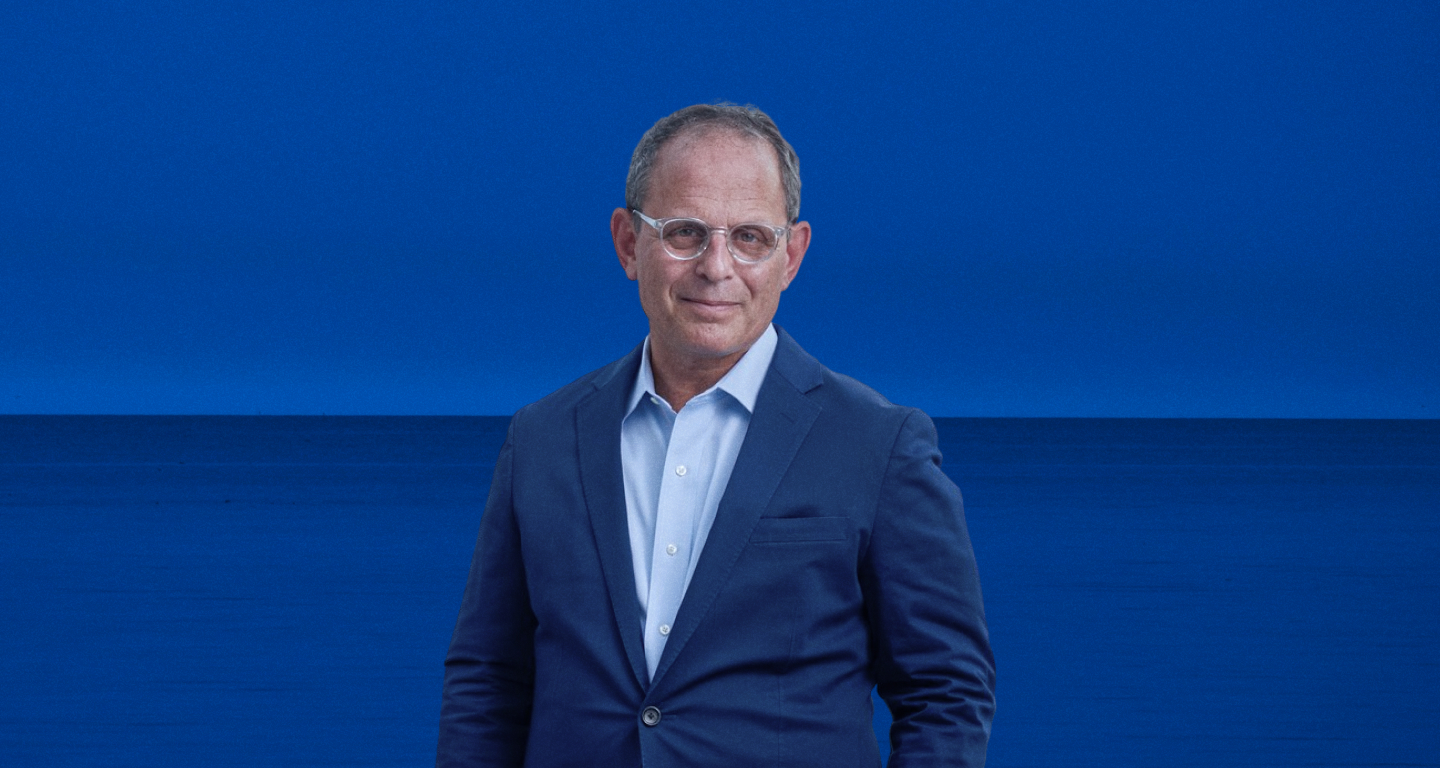
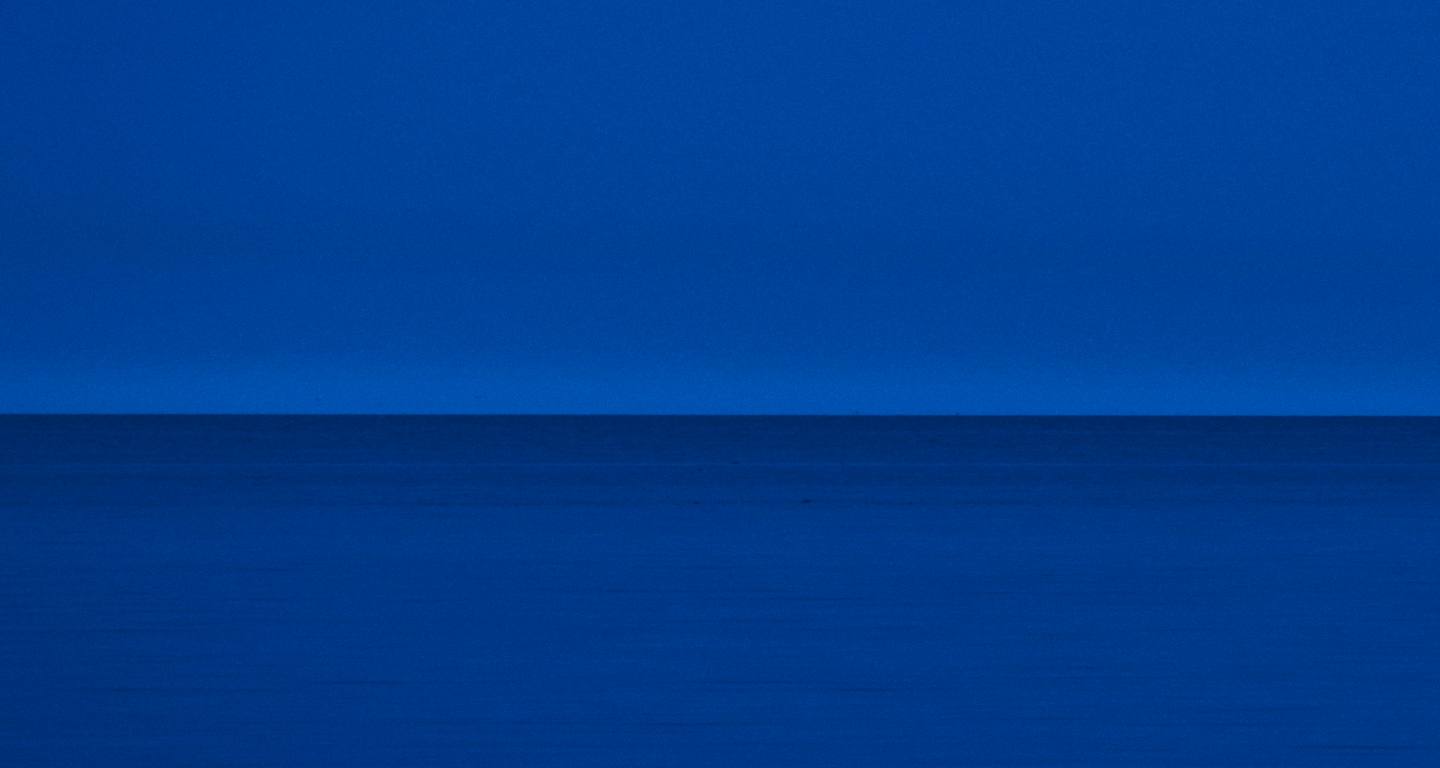
Services, Content Updates

Changed region(s): [[0.2812, 0.125, 0.8125, 1.0], [0.875, 0.5312, 1.0, 0.5625]]

diff --git a/public/index.html b/public/index.html
@@ -38,7 +38,15 @@
 			.nav-link .li_icon_nav path { fill:#FFF; transition: var(--transition_all); }
 				.nav-link:hover .li_icon_nav path,
 				.nav-link:focus .li_icon_nav path { fill:#FFF; }
-			header#header { background-image: url('assets/ss-banner-bg.jpg'); background-size: cover; background-position: center center; min-height: 55vh; }
+			header#header { background-image: url('assets/ss-banner-bg.jpg'); background-size: cover; background-position: center center; min-height: 55vh; position:relative; }
+			
+			@keyframes bgScott {
+			  0%   { opacity: 0; bottom:-2rem; }
+			  100% { opacity: 1; bottom:0; }
+			}
+			header#header::before { background-image: url('assets/scott-schiller-banner.png'); background-size: contain; background-position: center bottom; position: absolute; content:""; left:5%; bottom:0; height: 90%; width:90%; background-repeat: no-repeat; animation: bgScott 1s; }
+			
+			
 			
 				header#header .container,
 				header#header .container .row { min-height:55vh; }
@@ -111,6 +119,26 @@
 					footer#footer ul li a { text-decoration: none; color: var(--body-on-lightbg); }
 						footer#footer ul li a:hover,
 						footer#footer ul li a:focus { color: var(--body-on-lightbg); font-weight:600; }
+			
+			.form-control { background-color: rgb(255 255 255 / 0); border-radius: 0; border-color: var(--body-on-lightbg); border-width: 0 0 1px 0; font-weight: 700; }
+			.form-control:focus { background-color: rgb(255 255 255 / 0); border-width: 0 0 1px 0; box-shadow:none; border-color: var(--body-on-lightbg); color: var(--body-on-lightbg); }
+			.form-floating>label { color:#A0BBD7; font-weight: 700; }
+			
+			.form-floating>.form-control-plaintext~label, 
+			.form-floating>.form-control:focus~label, 
+			.form-floating>.form-control:not(:placeholder-shown)~label, 
+			.form-floating>.form-select~label { opacity: 1; transform: scale(.75) translateY(-0.5rem) translateX(0.15rem); }
+			
+			.form-floating>.form-control-plaintext:focus, 
+			.form-floating>.form-control-plaintext:not(:placeholder-shown), 
+			.form-floating>.form-control:focus, 
+			.form-floating>.form-control:not(:placeholder-shown) { padding-bottom: 0.25rem; }
+			
+			abbr[title] { text-decoration: none; }
+			input[aria-invalid="true"] { border-color: #F53939 !important; }
+			
+			label.error { color: #F53939; top: unset !important; padding: 0.5rem 0 0 0.75rem; font-weight: 400; }
+			
 			.footerCTA h2 { font-size: clamp(2.5rem, 1.741rem + 2.1916vw, 4rem); }
 			.footerCTA h3 { font-family: 'Manrope',sans-serif; font-weight: 200; font-size: clamp(1.5rem, 0.2349rem + 3.8193vw, 4rem); }
 				.footerCTA h3 a { text-decoration: none; color: var(--body-on-lightbg); }
@@ -137,7 +165,7 @@
 	<header id="header">
 		<div class="container">
 			<div class="row">
-				<div class="col d-flex flex-column justify-content-between">
+				<div class="col d-flex flex-column justify-content-between" style="z-index: 9;">
 					<nav class="navbar navbar-dark navbar-expand-md d-flex justify-content-between pt-5">
 						<div class="sslogo text-white d-none d-md-block"><span>Scott</span><br>Schiller</div>
 						<button class="navbar-toggler" type="button" data-bs-toggle="collapse" data-bs-target="#navbarScroll" aria-controls="navbarScroll" aria-expanded="false" aria-label="Toggle navigation">
@@ -148,6 +176,9 @@
 						  <ul class="navbar-nav me-auto my-2 my-lg-0 navbar-nav-scroll d-flex justify-content-end">
 							<li class="nav-item me-md-3">
 							  <a class="nav-link" href="#about">About</a>
+							</li>
+							<li class="nav-item me-md-3">
+							  <a class="nav-link" href="#services">Services</a>
 							</li>
 							<li class="nav-item me-md-3">
 							  <a class="nav-link" href="#my_articles">My Articles</a>
@@ -204,6 +235,32 @@
 						<h4 style="font-family:'Manrope',sans-serif; font-weight:800;color:#FFCA3C;">Courses Taught</h4>
 						<p class="text_on_darkbg">Technology's Impact on Entertainment and Media</p>
 					</div>
+				</div>
+			</div>
+		</section>
+		
+		<section id="services" class="container py-5">
+			<div class="row">
+				<div class="col">
+					<h2 class="h1" style="color:#003F95;">Services</h2>
+					<p class="fs-4">Schiller can help you accelerate growth, drive business transformation, and create long-term value.</p>
+					<div class="swiper swiperServices mt-5">
+						<div class="swiper-wrapper">
+							<div class="swiper-slide service_each">
+								<h3 class="h2">Programs</h3>
+								<p>Scott knows how to raise a company's profile and gain industry visibility through impactful thought leadership and communication. He excels at program development and education, conducting action-oriented workshops that focus on team building and teaching employees new skills to improve their performance. He also works with startup companies to develop strategies for communicating with best-in-class media sensibility.</p>
+							</div>
+							<div class="swiper-slide service_each">
+								<h3 class="h2">Monetization</h3>
+								<p>Schiller is experienced in aligning product and monetization strategies throughout an organization to ensure optimal performance and profitability. First, he conducts a thorough competitive analysis to identify knowledge gaps and then will optimize your business’s value proposition and new marketplace opportunities with a detailed go-to-market playbook. Additionally, he provides curated connections and introductions to established industry leaders who can help take your business even further.</p>
+							</div>
+							<div class="swiper-slide service_each">
+								<h3 class="h2">Leadership</h3>
+								<p>As a long time industry leader, Schiller is skilled in coaching and mentoring executives and teams to help them reach their own leadership potential. He has deep knowledge of how to implement effective compensation plans that drive growth and performance. He also understands and guides leaders on the nuances of managing with emotional intelligence that are essential for leadership effectiveness.</p>
+							</div>
+						</div>
+					</div>
+					<div class="services-pagination media_pag"></div>
 				</div>
 			</div>
 		</section>
@@ -443,16 +500,65 @@
 						</div>
 					</div>
 				</div>
-				<div class="col-md-7 footerCTA mt-4 mt-md-0">
-					<h2 class="mb-0 lh-1">Let's talk</h2>
-					<h3 class="mt-0"><a href="mailto:hello@scottyschiller.com" title="Email Scott Schiller">hello@scottyschiller.com</a></h3>
+				<div class="col-md-7 mt-4 mt-md-0">
+					<form name="contact" method="POST" data-netlify="true" netlify-honeypot="bot-field">
+						<input type="hidden" name="subject" value="Completed Contact Form from " />
+						<div class="form-floating mb-2">
+							<input type="text" class="form-control" id="nameInput" name="name" placeholder="Name" required>
+							<label for="nameInput">Name<abbr title="Required">*</abbr></label>
+						</div>
+						<div class="form-floating mb-2">
+							<input type="email" class="form-control" id="emailInput" name="email" spellcheck="false" placeholder="Email" required>
+							<label for="emailInput">Email<abbr title="Required">*</abbr></label>
+						</div>
+						<div class="form-floating mb-2">
+							<input type="text" class="form-control" id="companyInput" name="company" placeholder="Company" required>
+							<label for="companyInput">Company</label>
+						</div>
+						<div class="form-floating">
+							<textarea class="form-control" placeholder="Leave a message here" id="messageTextarea"></textarea>
+							<label for="messageTextarea">Message</label>
+						</div>
+						<div class="d-none"><label>Do not fill this out if you are human: <input name="bot-field" /></label></div>
+						<button type="submit">Send</button>
+					</form>
 				</div>
 			</div>
 		</div>
 	</footer>
 	<script src="https://cdn.jsdelivr.net/npm/bootstrap@5.2.2/dist/js/bootstrap.bundle.min.js" integrity="sha384-OERcA2EqjJCMA+/3y+gxIOqMEjwtxJY7qPCqsdltbNJuaOe923+mo//f6V8Qbsw3" crossorigin="anonymous"></script>
 	<script src="https://cdn.jsdelivr.net/npm/swiper@8/swiper-bundle.min.js"></script>
+	<script src="https://ajax.googleapis.com/ajax/libs/jquery/3.6.3/jquery.min.js"></script>
+	<script src="https://cdnjs.cloudflare.com/ajax/libs/jquery-validate/1.19.5/jquery.validate.min.js"></script>
 	<script>
+		
+		$(function() {
+		  // Initialize form validation on the registration form.
+		  // It has the name attribute "registration"
+		  $("form[name='contact']").validate({
+			// Specify validation rules
+			rules: {
+			  // The key name on the left side is the name attribute
+			  // of an input field. Validation rules are defined
+			  // on the right side
+			  name: "required",
+			  email: {
+				required: true,
+				email: true
+			  }
+			},
+			messages: {
+			  name: "Please enter your name",
+			  email: "Please enter a valid email address"
+			},
+			// Make sure the form is submitted to the destination defined
+			// in the "action" attribute of the form when valid
+			submitHandler: function(form) {
+			  form.submit();
+			}
+		  });
+		});
+		
 	  var swiper = new Swiper(".online_media", {
 		slidesPerView: 1.2,
 		spaceBetween: 30,
@@ -462,6 +568,28 @@
 		  clickable: true,
 		},
 	  });
+	  var swiper2 = new Swiper(".swiperServices", {
+		  spaceBetween: 30,
+		  centeredSlides: false,
+		  pagination: {
+			el: ".services-pagination",
+			clickable: true,
+		  },
+		  breakpoints: {
+			  540: {
+				slidesPerView: 1,
+				spaceBetween: 30,
+			  },
+			  768: {
+				slidesPerView: 2.2,
+				spaceBetween: 30,
+			  },
+			  1024: {
+				slidesPerView: 3,
+				spaceBetween: 30,
+			  },
+			},
+		});
 	  if (window.netlifyIdentity) {
 		window.netlifyIdentity.on("init", user => {
 		  if (!user) {
